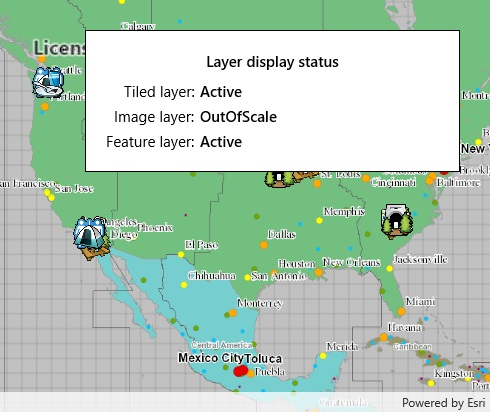
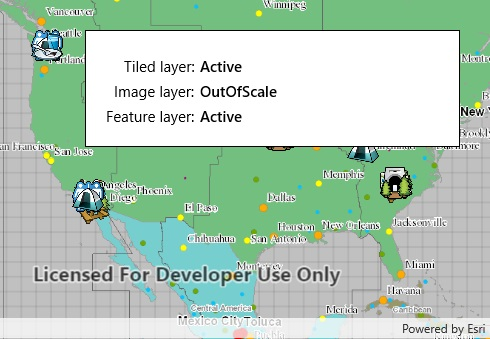
Changes per review

Changed region(s): [[0.0, 0.0, 1.0, 1.0], [0.2143, 0.118, 0.7041, 0.3835], [0.398, 0.0, 0.4286, 0.0295]]

diff --git a/src/UWP/ArcGISRuntime.UWP.Viewer/Samples/MapView/DisplayLayerViewState/DisplayLayerViewState.xaml b/src/UWP/ArcGISRuntime.UWP.Viewer/Samples/MapView/DisplayLayerViewState/DisplayLayerViewState.xaml
@@ -13,38 +13,33 @@
                     <RowDefinition Height="Auto" />
                     <RowDefinition Height="Auto" />
                     <RowDefinition Height="Auto" />
-                    <RowDefinition Height="Auto" />
                 </Grid.RowDefinitions>
                 <Grid.ColumnDefinitions>
                     <ColumnDefinition Width="Auto" />
                     <ColumnDefinition Width="*" />
                 </Grid.ColumnDefinitions>
-                <TextBlock Text="Layer display status"
-                           Grid.Row="0" Grid.Column="0" Grid.ColumnSpan="2"
-                           Margin="0,0,0,5"
-                           FontWeight="SemiBold" TextAlignment="Center" />
                 <TextBlock Text="Tiled layer:"
-                           Grid.Row="1" Grid.Column="0"
+                           Grid.Row="0" Grid.Column="0"
                            Margin="0,5,0,0"
                            HorizontalAlignment="Right" />
                 <TextBlock x:Name="TiledLayerStatus"
-                           Grid.Row="1" Grid.Column="1"
+                           Grid.Row="0" Grid.Column="1"
                            Margin="5,5,0,0"
                            FontWeight="SemiBold" />
                 <TextBlock Text="Image layer:"
-                           Grid.Row="2" Grid.Column="0"
+                           Grid.Row="1" Grid.Column="0"
                            Margin="0,5,0,0"
                            HorizontalAlignment="Right" />
                 <TextBlock x:Name="ImageLayerStatus"
-                           Grid.Row="2" Grid.Column="1"
+                           Grid.Row="1" Grid.Column="1"
                            Margin="5,5,0,0"
                            FontWeight="SemiBold" />
                 <TextBlock Text="Feature layer:"
-                           Grid.Row="3" Grid.Column="0"
+                           Grid.Row="2" Grid.Column="0"
                            Margin="0,5,0,0"
                            HorizontalAlignment="Right" />
                 <TextBlock x:Name="FeatureLayerStatus"
-                           Grid.Row="3" Grid.Column="1"
+                           Grid.Row="2" Grid.Column="1"
                            Margin="5,5,0,0"
                            FontWeight="SemiBold" />
             </Grid>
